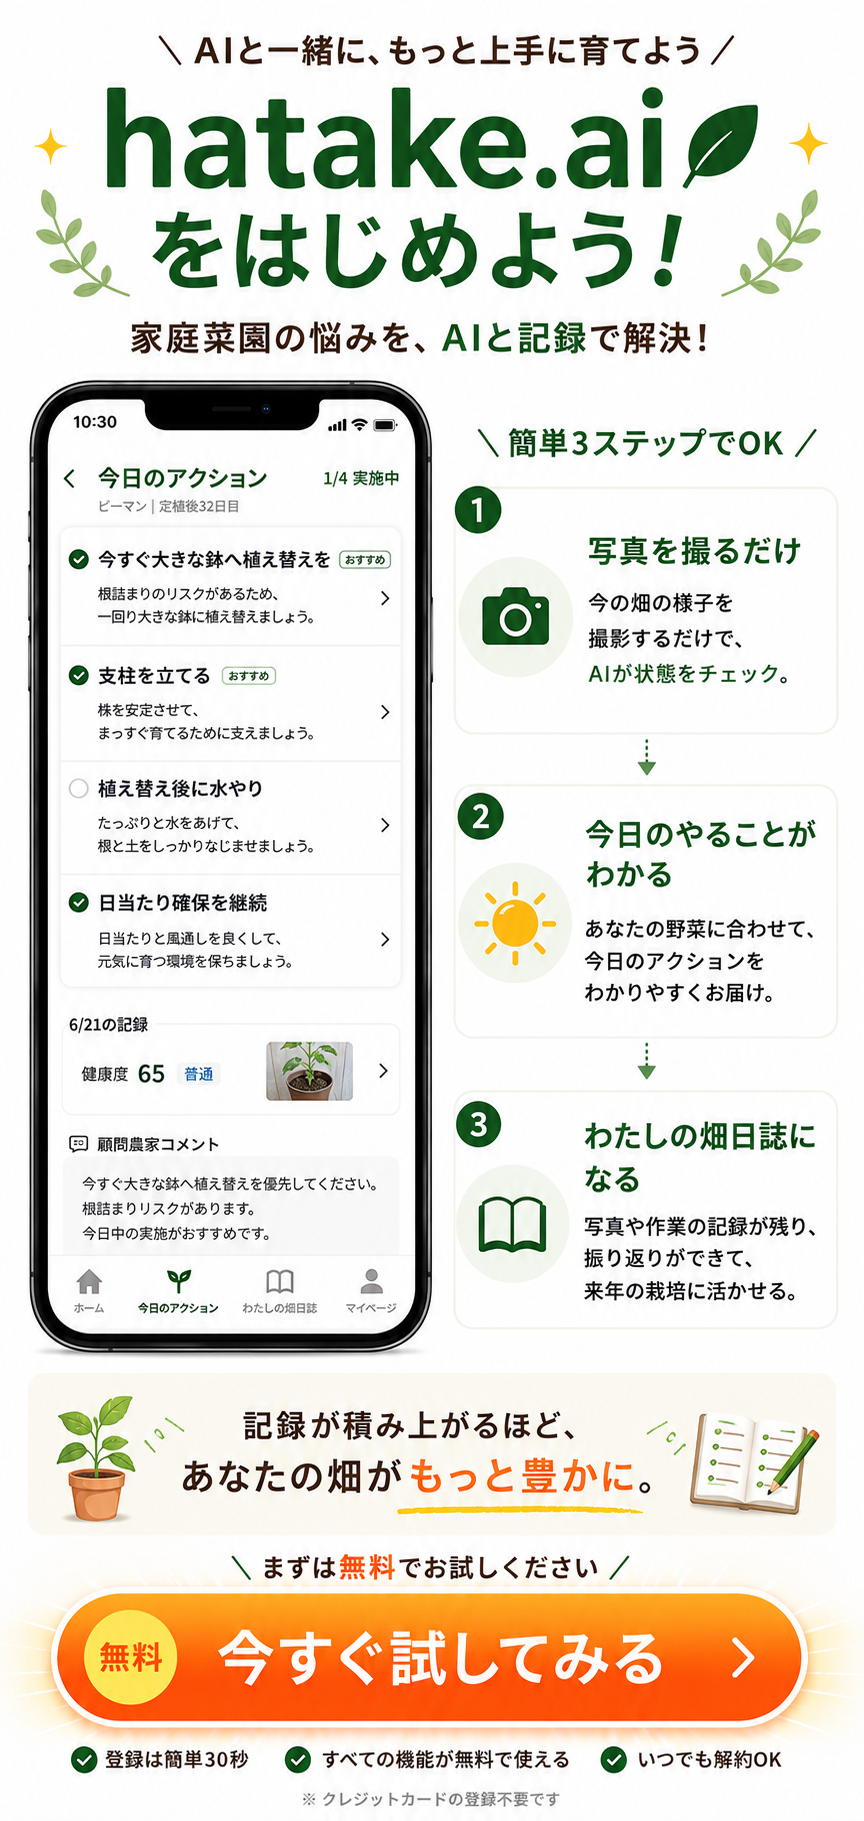
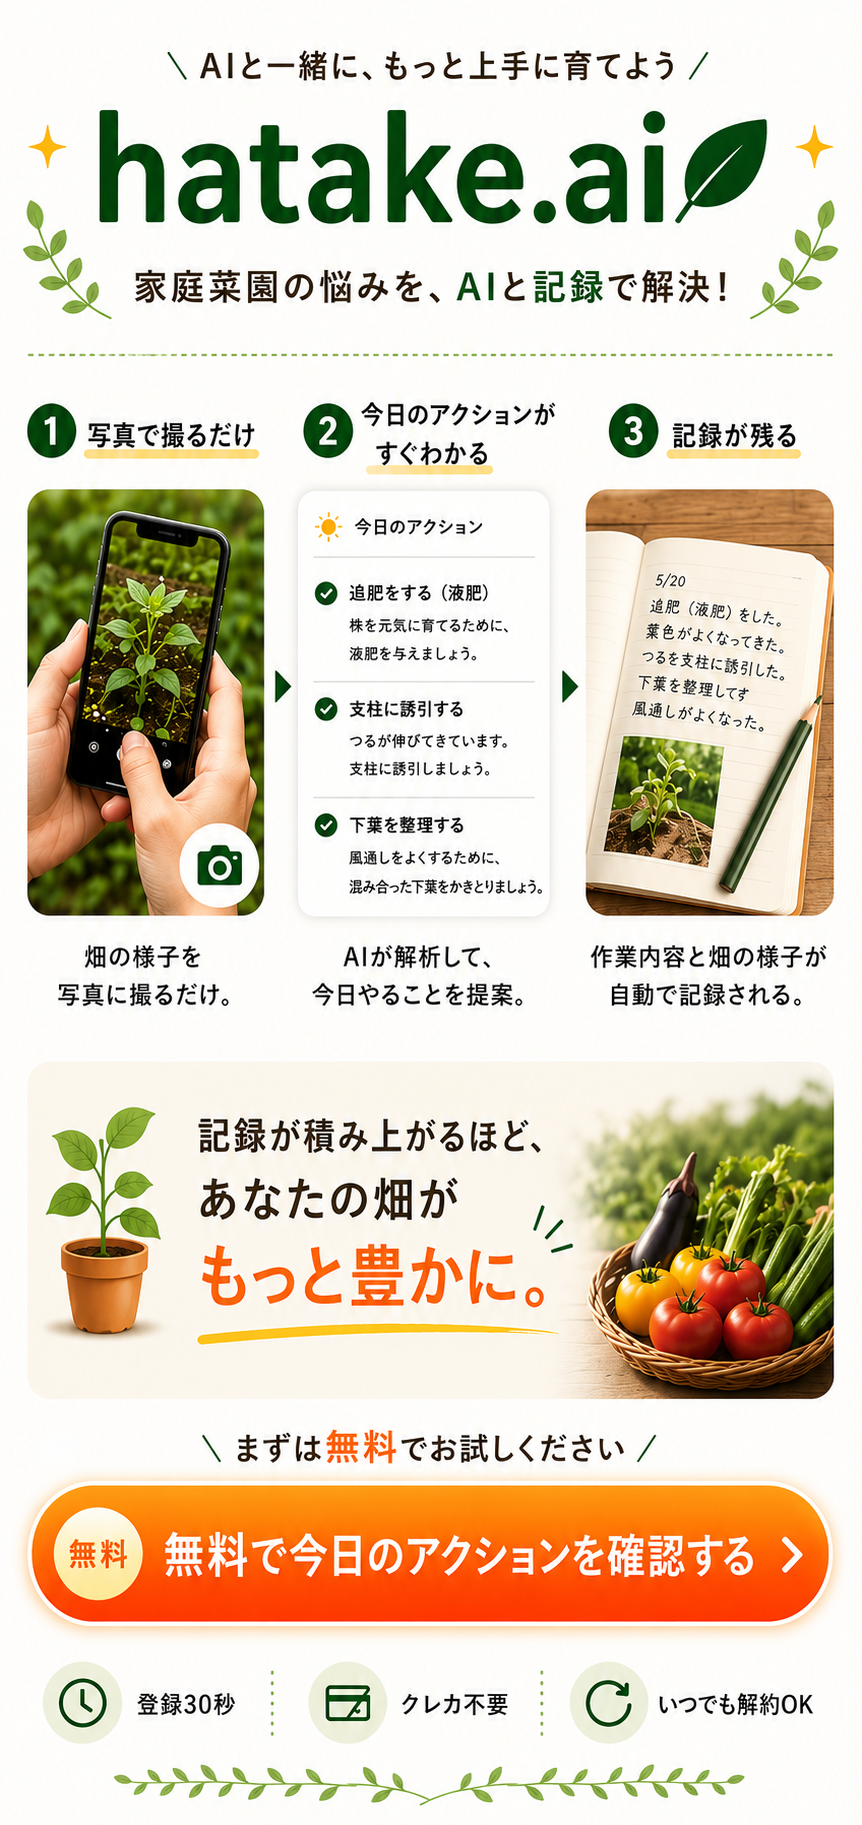
feat: replace Final CTA with new composite image
New design: hatake.ai + 3-step flow + rich CTA button
'無料で今日のアクションを確認する'. Updated aspect ratio
(862x1825) and transparent link overlay position (top:70%, h:16%).
Background changed from hatake-green to hatake-cream to match new asset.

diff --git a/app/page.tsx b/app/page.tsx
@@ -115,19 +115,19 @@ export default function LP() {
         </section>
 
         {/* 8. Final CTA */}
-        <section className="bg-hatake-green relative">
-          <div className="relative w-full" style={{ aspectRatio: '864 / 1821' }}>
+        <section className="bg-hatake-cream relative">
+          <div className="relative w-full" style={{ aspectRatio: '862 / 1825' }}>
             <Image
               src="/final-cta-composite.png"
-              alt="AIと一緒に、もっと上手に育てよう。hatake.aiをはじめよう！家庭菜園の悩みを、AIと記録で解決！簡単3ステップでOK：1 写真を撮るだけ、2 今日のやることがわかる、3 わたしの畑日誌になる。記録が積み上がるほど、あなたの畑がもっと豊かに。今すぐ試してみる。登録は簡単30秒、すべての機能が無料で使える、いつでも解約OK"
+              alt="AIと一緒に、もっと上手に育てよう。hatake.ai 家庭菜園の悩みを、AIと記録で解決！1 写真を撮るだけ、2 今日のアクションがすぐわかる、3 記録が残る。記録が積み上がるほど、あなたの畑がもっと豊かに。まずは無料でお試しください。無料で今日のアクションを確認する。登録30秒、クレカ不要、いつでも解約OK"
               fill
               className="object-cover object-top"
             />
             <a
               href="https://hatake-ai.vercel.app/"
-              aria-label="今すぐ試してみる"
+              aria-label="無料で今日のアクションを確認する"
               className="absolute"
-              style={{ left: '4%', width: '92%', top: '87.5%', height: '6.5%' }}
+              style={{ left: '4%', width: '92%', top: '70%', height: '16%' }}
             />
           </div>
         </section>